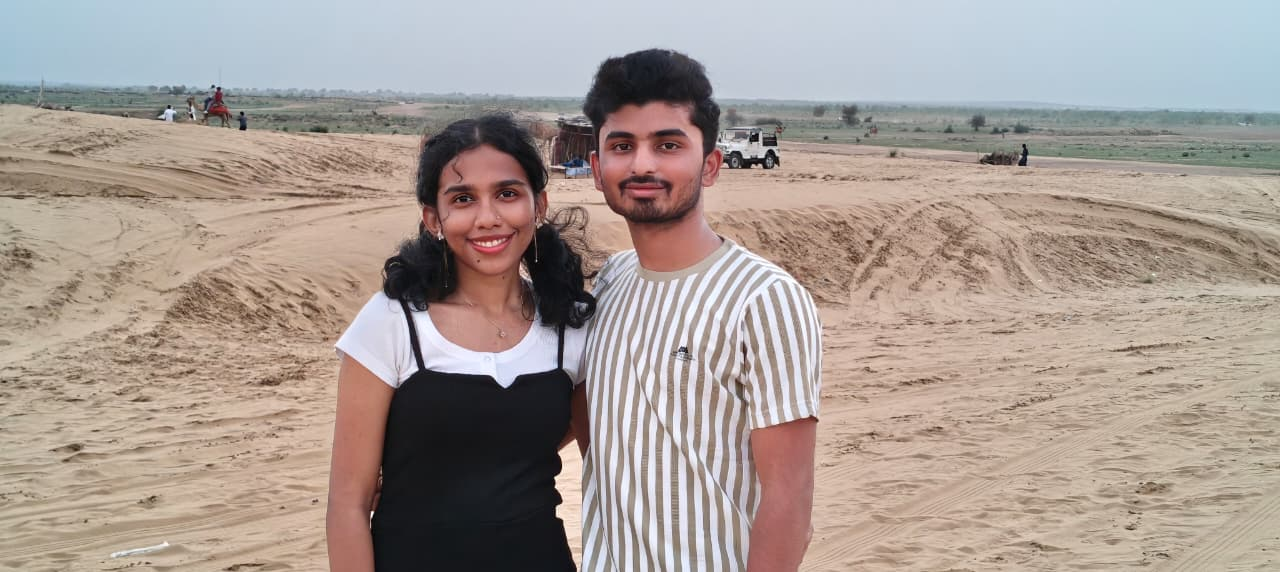
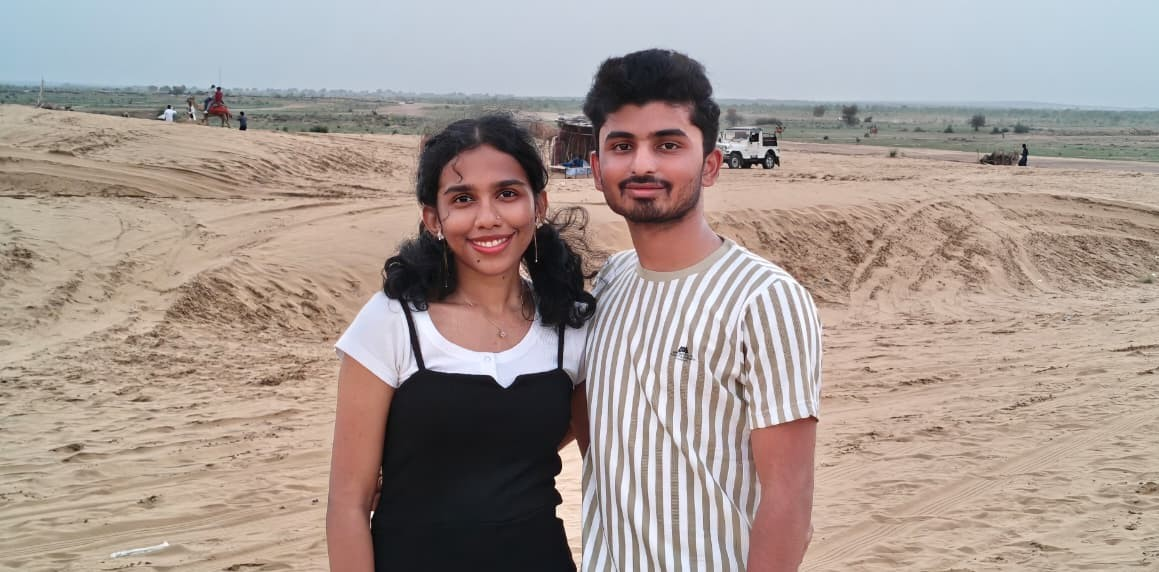
okay commit at 19th may

diff --git a/src/components/LandingPage.jsx b/src/components/LandingPage.jsx
@@ -19,7 +19,7 @@ function LandingPage({ onStart, onTestBypass }) {
           setCurrentScene((s) => s + 1);
           setVisible(true);
         }, 500);
-      }, 6500);
+      }, 9500);
       return () => clearTimeout(timer);
     } else {
       const timer = setTimeout(() => setShowButton(true), 800);
@@ -110,7 +110,7 @@ function LandingPage({ onStart, onTestBypass }) {
       {/* Scene content */}
       <div style={{
         textAlign: "center",
-        padding: "2rem",
+        padding: "clamp(0.8rem, 2vw, 1.2rem)",
         maxWidth: 600,
         position: "relative",
         zIndex: 5,
@@ -121,7 +121,7 @@ function LandingPage({ onStart, onTestBypass }) {
         {/* Emoji with glow */}
         <div style={{
           fontSize: "clamp(83.2px, 19.5vw, 130px)",
-          marginBottom: "1.5rem",
+          marginBottom: "clamp(0.8rem, 2vw, 1rem)",
           filter: `drop-shadow(0 0 30px ${scene.color}80)`,
           animation: "bounce-gentle 3s ease-in-out infinite",
           display: "block",
@@ -130,7 +130,7 @@ function LandingPage({ onStart, onTestBypass }) {
         </div>
 
         {/* Decorative line */}
-        <div style={{ display: "flex", alignItems: "center", gap: 12, marginBottom: "1.5rem", justifyContent: "center" }}>
+        <div style={{ display: "flex", alignItems: "center", gap: 12, marginBottom: "clamp(0.8rem, 1.5vw, 1rem)", justifyContent: "center" }}>
           <div style={{ height: 1, width: 40, background: `linear-gradient(to right, transparent, ${scene.color})` }} />
           <div style={{ width: 6, height: 6, borderRadius: "50%", background: scene.color, boxShadow: `0 0 10px ${scene.color}` }} />
           <div style={{ height: 1, width: 40, background: `linear-gradient(to left, transparent, ${scene.color})` }} />
@@ -138,22 +138,22 @@ function LandingPage({ onStart, onTestBypass }) {
 
         {/* Glass Box Enclosing Title and Text */}
         <div style={{
-          padding: "2rem",
-          background: "rgba(15, 10, 35, 0.25)",
-          backdropFilter: "blur(10px)",
+          padding: "clamp(1rem, 2vw, 1.5rem)",
+          background: "rgba(0, 0, 0, 0.35)",
+          backdropFilter: "blur(20px)",
           borderRadius: "20px",
           border: "1.5px solid rgba(255, 215, 0, 0.15)",
           boxShadow: `
-            0 4px 20px 0 rgba(173, 175, 208, 0.3),
-            inset 0 0 20px rgba(255, 215, 0, 0.06),
-            0 0 40px rgba(255, 215, 0, 0.1)
+            0 4px 20px 0 rgba(15, 17, 44, 0.3),
+            inset 0 0 20px rgba(37, 33, 14, 0.06),
+            0 0 40px rgba(0, 0, 0, 0.1)
           `,
         }}>
           <h1 style={{
-            fontSize: "clamp(1.82rem, 6.5vw, 2.86rem)",
+            fontSize: "clamp(1.5rem, 5vw, 2.2rem)",
             fontWeight: "bold",
             color: scene.color,
-            marginBottom: "1rem",
+            marginBottom: "clamp(0.5rem, 1vw, 0.8rem)",
             textShadow: `0 0 30px ${scene.color}60`,
             lineHeight: 1.3,
             fontFamily: "'Comic Neue', cursive",
@@ -168,7 +168,25 @@ function LandingPage({ onStart, onTestBypass }) {
             fontStyle: "italic",
             margin: 0,
           }}>
-            {scene.text}
+            {scene.highlightPhrase ? (
+              <>
+                {scene.text.split(scene.highlightPhrase).map((part, index, array) => (
+                  <span key={index}>
+                    {part}
+                    {index < array.length - 1 && (
+                      <span style={{
+                        animation: "highlight-reveal 2s ease-in-out 0.5s forwards",
+                        display: "inline-block",
+                      }}>
+                        {scene.highlightPhrase}
+                      </span>
+                    )}
+                  </span>
+                ))}
+              </>
+            ) : (
+              scene.text
+            )}
           </p>
         </div>
 
@@ -246,6 +264,18 @@ function LandingPage({ onStart, onTestBypass }) {
         @keyframes bounce-gentle {
           0%, 100% { transform: translateY(0); }
           50% { transform: translateY(-6px); }
+        }
+        @keyframes highlight-reveal {
+          0% { 
+            color: rgba(255,255,255,0.8);
+            text-shadow: none;
+            font-weight: normal;
+          }
+          100% { 
+            color: #FFD700;
+            text-shadow: 0 0 30px rgba(255,215,0,0.8), 0 0 60px rgba(255,215,0,0.4);
+            font-weight: bold;
+          }
         }
       `}</style>
     </div>

diff --git a/src/constants/memories.js b/src/constants/memories.js
@@ -12,7 +12,7 @@ import img11 from "../assets/images/WhatsApp Image 2026-05-16 at 1.22.00 PM.jpeg
 import img12 from "../assets/images/WhatsApp Image 2026-05-16 at 1.06.57 PM (1).jpeg";
 import img13 from "../assets/images/WhatsApp Image 2026-05-16 at 1.06.57 PM.jpeg";
 import img14 from "../assets/images/WhatsApp Image 2026-05-16 at 1.08.44 PM (1).jpeg";
-import img15 from "../assets/images/WhatsApp Image 2026-05-16 at 1.08.44 PM.jpeg";
+import img15 from "../assets/images/WhatsApp Image 2026-05-16 at 1.08.44 PM.png";
 import img16 from "../assets/images/WhatsApp Image 2026-05-16 at 1.08.45 PM (1).jpeg";
 import img17 from "../assets/images/WhatsApp Image 2026-05-16 at 1.08.45 PM (2).jpeg";
 import img18 from "../assets/images/WhatsApp Image 2026-05-16 at 1.08.45 PM.jpeg";
@@ -39,7 +39,7 @@ export const MEMORIES = [
   { caption: "Laughter Fills the Hall 😄", text: "The kingdom echoes with joy and silly jokes.", rotate: -2, image: img7 },
   { caption: "Kindness Warrior 💫", text: "She turns frowns upside down every single day.", rotate: 3, image: img8 },
   { caption: "Dream Maker ✨", text: "Even the impossible seems possible with her.", rotate: -1, image: img9 },
-  { caption: "Forever Friend 🤝", text: "Loyal, true, and always there when needed.", rotate: 2, image: img10 },
+  { caption: "Forever Friend 🤝", text: "Loyal, true, and always there when needed.", rotate: 2, image: img10, scale: 1.4 },
   { caption: "Treasure Bearer 💎", text: "The real treasure is knowing her.", rotate: -4, image: img11 },
   { caption: "Star of Minionland ⭐", text: "She shines brighter than all the stars combined.", rotate: 3, image: img12 },
   { caption: "Hope's Beacon 🔥", text: "In dark times, she lights the way forward.", rotate: 0, image: img13 },
@@ -51,7 +51,7 @@ export const MEMORIES = [
   { caption: "Sunshine Spreader ☀", text: "Her warmth brightens even the cloudiest days.", rotate: -1, image: img19 },
   { caption: "Wisdom Keeper 📖", text: "Old soul in a young spirit, guiding us well.", rotate: 3, image: img20 },
   { caption: "Laughter's Echo 🎵", text: "Her giggles are contagious and unforgettable.", rotate: -3, image: img21 },
-  { caption: "Heart of Gold 🏆", text: "She gives without counting the cost.", rotate: 2, image: img22 },
+  { caption: "Heart of Gold 🏆", text: "She gives without counting the cost.", rotate: 2, image: img22, scale: 1.1 },
   { caption: "Wonder Seeker 🔭", text: "Always curious, always learning, always growing.", rotate: 0, image: img23 },
   { caption: "Peace Maker 🕊", text: "Where there is conflict, she brings harmony.", rotate: -2, image: img24 },
   { caption: "Spark Igniter ⚡", text: "She lights the fire of inspiration in others.", rotate: 1, image: img25 },

diff --git a/src/components/HuntPage.jsx b/src/components/HuntPage.jsx
@@ -33,7 +33,7 @@ function HuntPage({ onComplete, initialSolved = [] }) {
       <FloatingParticles count={20} />
 
       {/* Header */}
-      <div style={{ textAlign: "center", paddingTop: "clamp(1.5rem, 4vw, 3rem)", position: "relative", zIndex: 5 }}>
+      <div style={{ textAlign: "center", paddingTop: "clamp(0.8rem, 2vw, 1.5rem)", position: "relative", zIndex: 5 }}>
         <div style={{
           display: "inline-flex",
           gap: 8,
@@ -64,7 +64,7 @@ function HuntPage({ onComplete, initialSolved = [] }) {
         {/* Progress bar */}
         <div style={{
           width: "min(300px, 80vw)",
-          margin: "1rem auto",
+          margin: "clamp(0.5rem, 1vw, 0.75rem) auto",
           height: 6,
           background: "rgba(255,255,255,0.1)",
           borderRadius: 3,
@@ -82,7 +82,7 @@ function HuntPage({ onComplete, initialSolved = [] }) {
       </div>
 
       {/* Map */}
-      <div style={{ padding: "1rem 1rem 2rem", position: "relative", zIndex: 5 }}>
+      <div style={{ padding: "clamp(0.5rem, 1vw, 0.75rem) 1rem", position: "relative", zIndex: 5 }}>
         <TreasureMap solvedClues={solvedClues} onSelectClue={setActiveClue} />
 
         {/* Legend */}
@@ -90,7 +90,7 @@ function HuntPage({ onComplete, initialSolved = [] }) {
           display: "flex",
           justifyContent: "center",
           gap: "clamp(0.8rem, 3vw, 1.5rem)",
-          marginTop: "1rem",
+          marginTop: "clamp(0.5rem, 1vw, 0.75rem)",
           flexWrap: "wrap",
         }}>
           {[["🔒", "Locked", "rgba(255,255,255,0.3)"], ["✨", "Unlocked", "#FFD700"], ["✅", "Solved", "#1ABC9C"]].map(([icon, label, color]) => (

diff --git a/src/components/MemoryGallery.jsx b/src/components/MemoryGallery.jsx
@@ -5,7 +5,7 @@ function MemoryGallery() {
   useEffect(() => {
     let scrollPosition = 0;
     let scrollDirection = 1;
-    const scrollSpeed = 0.5; // Reduced speed for more leisurely viewing
+    const scrollSpeed = 0.4; // Reduced speed for more leisurely viewing
     let animationId;
 
     const autoScroll = () => {
@@ -83,6 +83,7 @@ function MemoryGallery() {
                   height: "100%",
                   objectFit: "cover",
                   borderRadius: 2,
+                  transform: mem.scale ? `scale(${mem.scale})` : "scale(1)",
                 }}
               />
             </div>

diff --git a/src/components/TreasureMap.jsx b/src/components/TreasureMap.jsx
@@ -105,7 +105,6 @@ function TreasureMap({ solvedClues, onSelectClue }) {
               style={{ cursor: node.unlocked ? "pointer" : "default" }}
               onClick={(e) => {
                 if (node.unlocked) {
-                  playClickSound();
                   createClickSparkles({ currentTarget: e.target });
                   onSelectClue(node);
                 }

diff --git a/src/constants/storyScenes.js b/src/constants/storyScenes.js
@@ -28,6 +28,7 @@ export const STORY_SCENES = [
     title: "A secret was brewing...",
     text: "Deep in the Minionland vaults, a loyal friend began crafting something extraordinary. A treasure worthy of a queen who saved an entire banana kingdom.",
     color: "#1ABC9C",
+    highlightPhrase: "a loyal friend",
   },
   {
     emoji: "🗺",

diff --git a/src/utils/buttonEffects.js b/src/utils/buttonEffects.js
@@ -120,7 +120,6 @@ export const createScreenFlash = () => {
 };
 
 export const handleButtonClick = (event) => {
-  playClickSound();
   createClickSparkles(event);
   createScreenFlash();
 };
